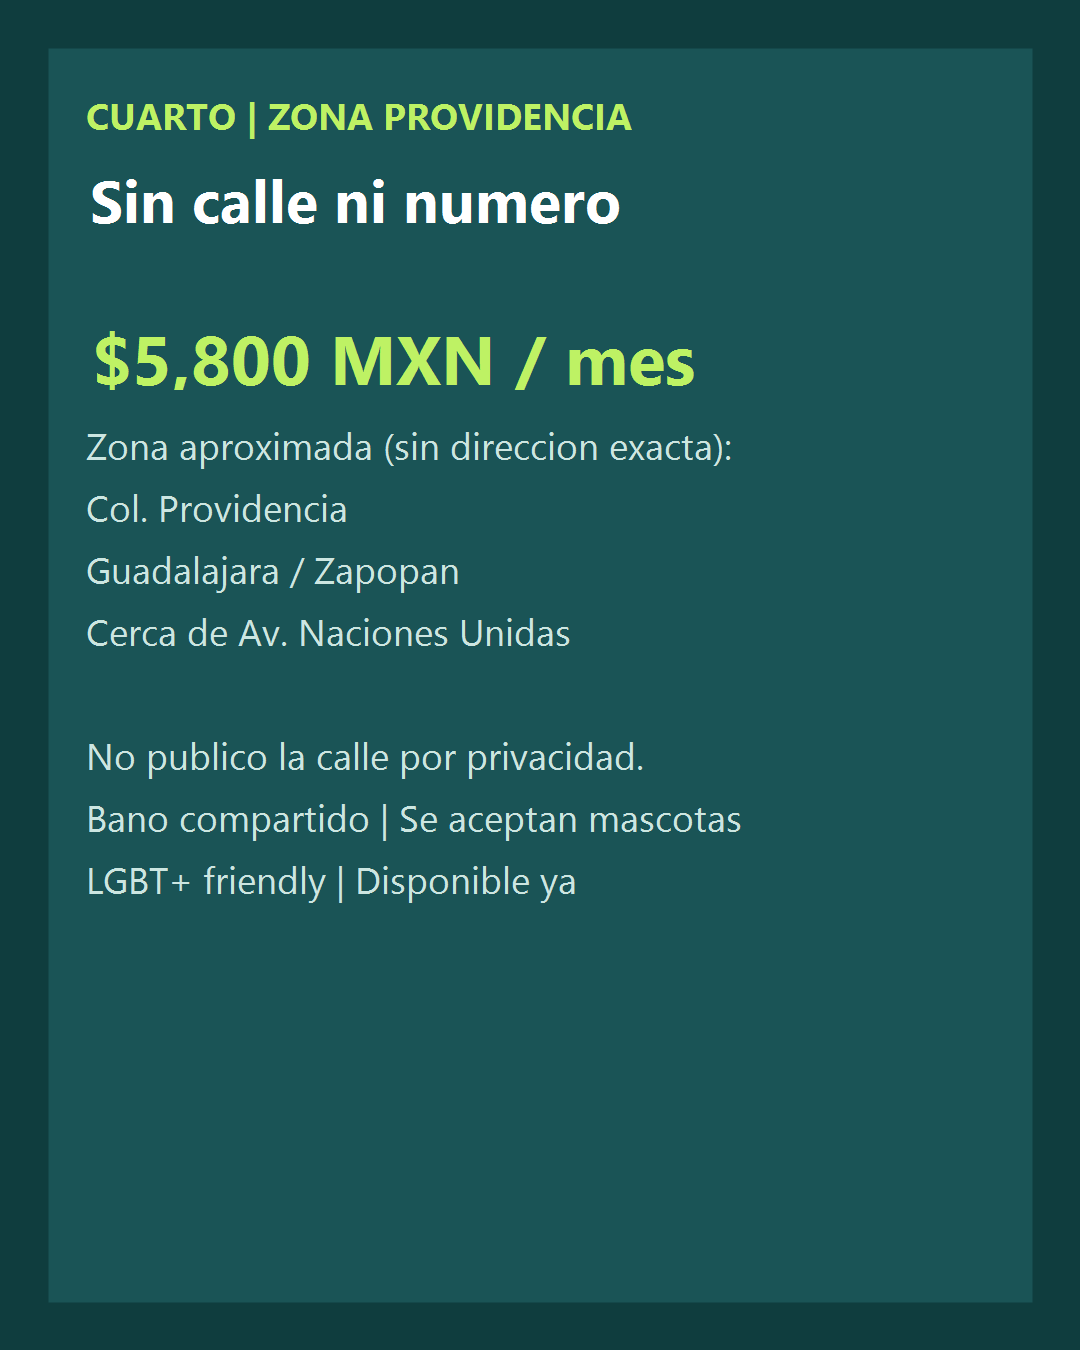
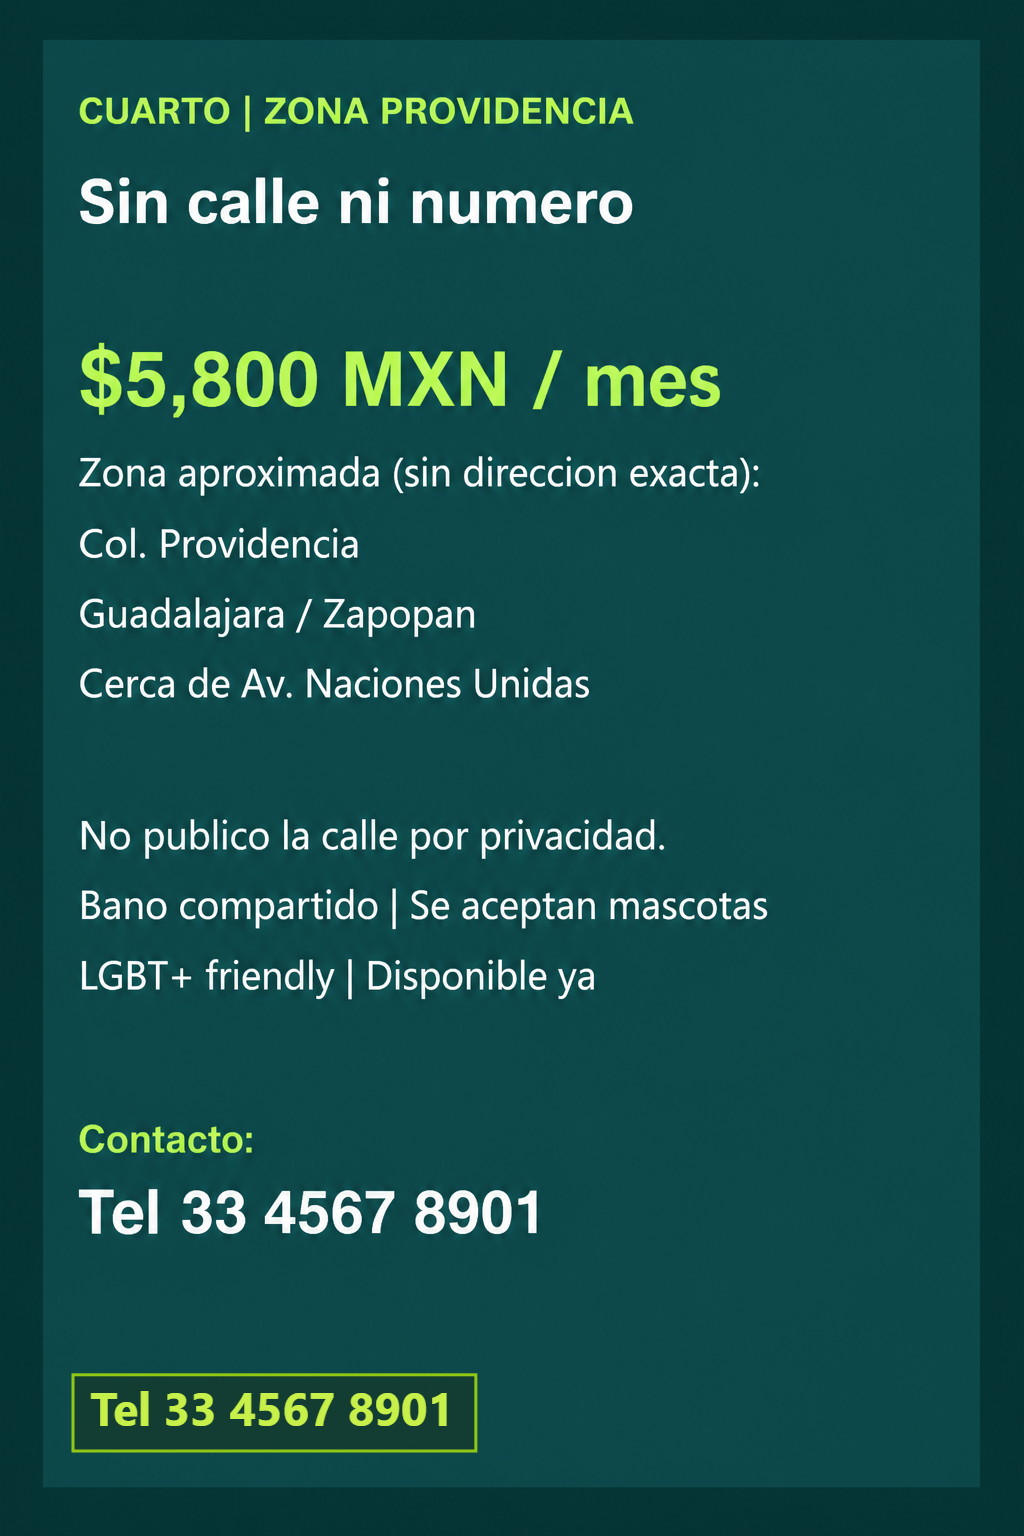
Show phone on AI editable preview and seed OCR test numbers.
Prefill listing phone from profile after AI compose/claim when empty, surface edit controls in the preview header for room and property flows, and stamp Autopoblar infographics plus paste text with known MX numbers for extraction tests.

diff --git a/src/lib/adminSeedData.ts b/src/lib/adminSeedData.ts
@@ -408,33 +408,39 @@ const SEED_INFOGRAPHICS = [
     exactAddress: true,
     colonia: "Ladrón de Guevara",
     rent: 6500,
+    phone: "3334567890",
     loft: false,
     lodgingType: "private_room" as const,
     tagsOn: ["baño-privado", "estacionamiento", "muebles"] as SeedAiRoomForm["hints"]["tagsOn"],
     gender: null as "female" | "male" | null,
-    text: "Rento el cuarto del infografico. Precio, direccion exacta y amenidades estan en la imagen. Disponible ya.",
+    text:
+      "Rento el cuarto del infografico. Precio, direccion exacta y amenidades estan en la imagen. WhatsApp 33 3456 7890. Disponible ya.",
   },
   {
     file: "infographic-exact-americana.png",
     exactAddress: true,
     colonia: "Colonia Americana",
     rent: 8200,
+    phone: "3312345678",
     loft: true,
     lodgingType: "private_room" as const,
     tagsOn: ["baño-privado", "estacionamiento", "muebles"] as SeedAiRoomForm["hints"]["tagsOn"],
     gender: null as "female" | "male" | null,
-    text: "Loft en Americana. Todo el detalle (incluyendo la direccion exacta para el mapa) va en el infografico.",
+    text:
+      "Loft en Americana. Todo el detalle (incluyendo la direccion exacta para el mapa) va en el infografico. Cel 33 1234 5678.",
   },
   {
     file: "infographic-colonia-providencia.png",
     exactAddress: false,
     colonia: "Providencia",
     rent: 5800,
+    phone: "3345678901",
     loft: false,
     lodgingType: "private_room" as const,
     tagsOn: ["mascotas", "lgbt-friendly"] as SeedAiRoomForm["hints"]["tagsOn"],
     gender: null as "female" | "male" | null,
-    text: "Rento cuarto en Providencia. No pongo la calle por privacidad; la zona aproximada esta en el infografico. Se aceptan mascotas.",
+    text:
+      "Rento cuarto en Providencia. No pongo la calle por privacidad; la zona aproximada esta en el infografico. Se aceptan mascotas. Tel 33 4567 8901.",
   },
 ] as const;
 
@@ -471,9 +477,10 @@ export function seedAiRoomForm(): SeedAiRoomForm {
 /** Facebook-style paste for the AI property step (admin Autopoblar). */
 export function seedAiPropertyForm(): SeedAiRoomForm {
   const seed = seedAiRoomForm();
+  const phoneLine = seed.text.match(/(?:WhatsApp|Cel|Tel)\s+[\d\s]+/i)?.[0] ?? "WhatsApp 33 1234 5678";
   return {
     ...seed,
-    text: "Casa en Americana. Se rentan 2 recámaras, una ya está ocupada. Precio y zona en el infográfico. Áreas comunes amplias.",
+    text: `Casa en Americana. Se rentan 2 recámaras, una ya está ocupada. Precio y zona en el infográfico. Áreas comunes amplias. ${phoneLine}.`,
     hints: {
       ...seed.hints,
       loft: false,

diff --git a/src/pages/PublishWizardPage.tsx b/src/pages/PublishWizardPage.tsx
@@ -485,6 +485,21 @@ const defaultDraft = (): Draft => ({
   approximateRadiusMeters: APPROXIMATE_LOCATION_RADIUS_DEFAULT_M,
 });
 
+/** Prefer AI/extracted listing phone; if empty, fall back to profile for preview/edit. */
+function applyProfilePhoneIfMissing(
+  draft: Draft,
+  profilePhoneE164?: string | null,
+): Draft {
+  if (String(draft.contactWhatsApp ?? "").trim()) return draft;
+  const national = normalizeMxNationalDigits(profilePhoneE164 ?? "");
+  if (!national) return draft;
+  return {
+    ...draft,
+    contactWhatsApp: national,
+    showWhatsApp: true,
+  };
+}
+
 function aiImagesFingerprint(images: AiLocalImage[]): string {
   return images
     .map((img) => {
@@ -1268,10 +1283,13 @@ export function PublishWizardPage() {
         const info = await fetchAssistedDraftClaim(token);
         if (cancelled || info.isClaimed) return;
         const mapped = draftFromPropertyBundle(claimInfoToBundle(info));
-        const nextDraft: Draft = {
-          ...mapped.draft,
-          roomCreateFlow: info.source === "self_serve" ? "ai" : "manual",
-        };
+        const nextDraft: Draft = applyProfilePhoneIfMissing(
+          {
+            ...mapped.draft,
+            roomCreateFlow: info.source === "self_serve" ? "ai" : "manual",
+          },
+          meRef.current?.phoneE164,
+        );
         const resumeStep = lastWizardStep(nextDraft);
         setDraft(nextDraft);
         setServerSync(mapped.serverSync);
@@ -3075,10 +3093,13 @@ export function PublishWizardPage() {
       }
       const info = await fetchAssistedDraftClaim(result.token);
       const mapped = draftFromPropertyBundle(claimInfoToBundle(info));
-      const nextDraft: Draft = applyAiLocalGalleryIfMissing(
-        { ...mapped.draft, roomCreateFlow: "ai", city: draft.city },
-        galleryForCompose,
-        infographicsForCompose,
+      const nextDraft: Draft = applyProfilePhoneIfMissing(
+        applyAiLocalGalleryIfMissing(
+          { ...mapped.draft, roomCreateFlow: "ai", city: draft.city },
+          galleryForCompose,
+          infographicsForCompose,
+        ),
+        meRef.current?.phoneE164,
       );
       const resumeStep = lastWizardStep(nextDraft);
       setAssistedDraftToken(result.token);

diff --git a/src/components/publish/EditableListingPreview.tsx b/src/components/publish/EditableListingPreview.tsx
@@ -33,7 +33,7 @@ import {
   WIZARD_FIELD_CONTROL_CLASS,
 } from "@/components/WizardNumberStepper";
 import { apiAbsoluteUrl } from "@/lib/mediaUrl";
-import { phoneDigitsForStorage } from "@/lib/mxPhone";
+import { formatMxPhoneDisplay, phoneDigitsForStorage } from "@/lib/mxPhone";
 import {
   roomDimensionWizardLabel,
 } from "@/lib/listingKeyLabels";
@@ -1100,6 +1100,33 @@ export function EditableListingPreview({
             {!isPropertyPreview && !isPropertyScope && (listing.depositMxn ?? 0) > 0 ? (
               <p className="mt-2 text-sm text-muted">Depósito · {money.format(listing.depositMxn ?? 0)}</p>
             ) : null}
+            <div className="mt-3 rounded-xl border border-border/80 bg-surface/80 px-3 py-2.5">
+              <div className="flex flex-wrap items-start justify-between gap-2">
+                <div className="min-w-0">
+                  <p className="text-[11px] font-semibold uppercase tracking-wide text-muted">
+                    Teléfono / móvil
+                  </p>
+                  {phoneDigitsForStorage(draft.contactWhatsApp) && draft.showWhatsApp ? (
+                    <p className="mt-0.5 font-mono text-sm tabular-nums text-body">
+                      {formatMxPhoneDisplay(draft.contactWhatsApp)}
+                    </p>
+                  ) : phoneDigitsForStorage(draft.contactWhatsApp) && !draft.showWhatsApp ? (
+                    <p className="mt-0.5 text-sm text-muted">
+                      Guardado · oculto en el anuncio ({formatMxPhoneDisplay(draft.contactWhatsApp)})
+                    </p>
+                  ) : (
+                    <p className="mt-0.5 text-sm text-muted">Sin teléfono · opcional</p>
+                  )}
+                </div>
+                <button
+                  type="button"
+                  onClick={openHeaderEdit}
+                  className="inline-flex min-h-11 shrink-0 items-center rounded-full px-2 text-xs font-semibold text-primary hover:underline"
+                >
+                  {phoneDigitsForStorage(draft.contactWhatsApp) ? "Editar" : "Agregar"}
+                </button>
+              </div>
+            </div>
           </>
         )}
       </header>
